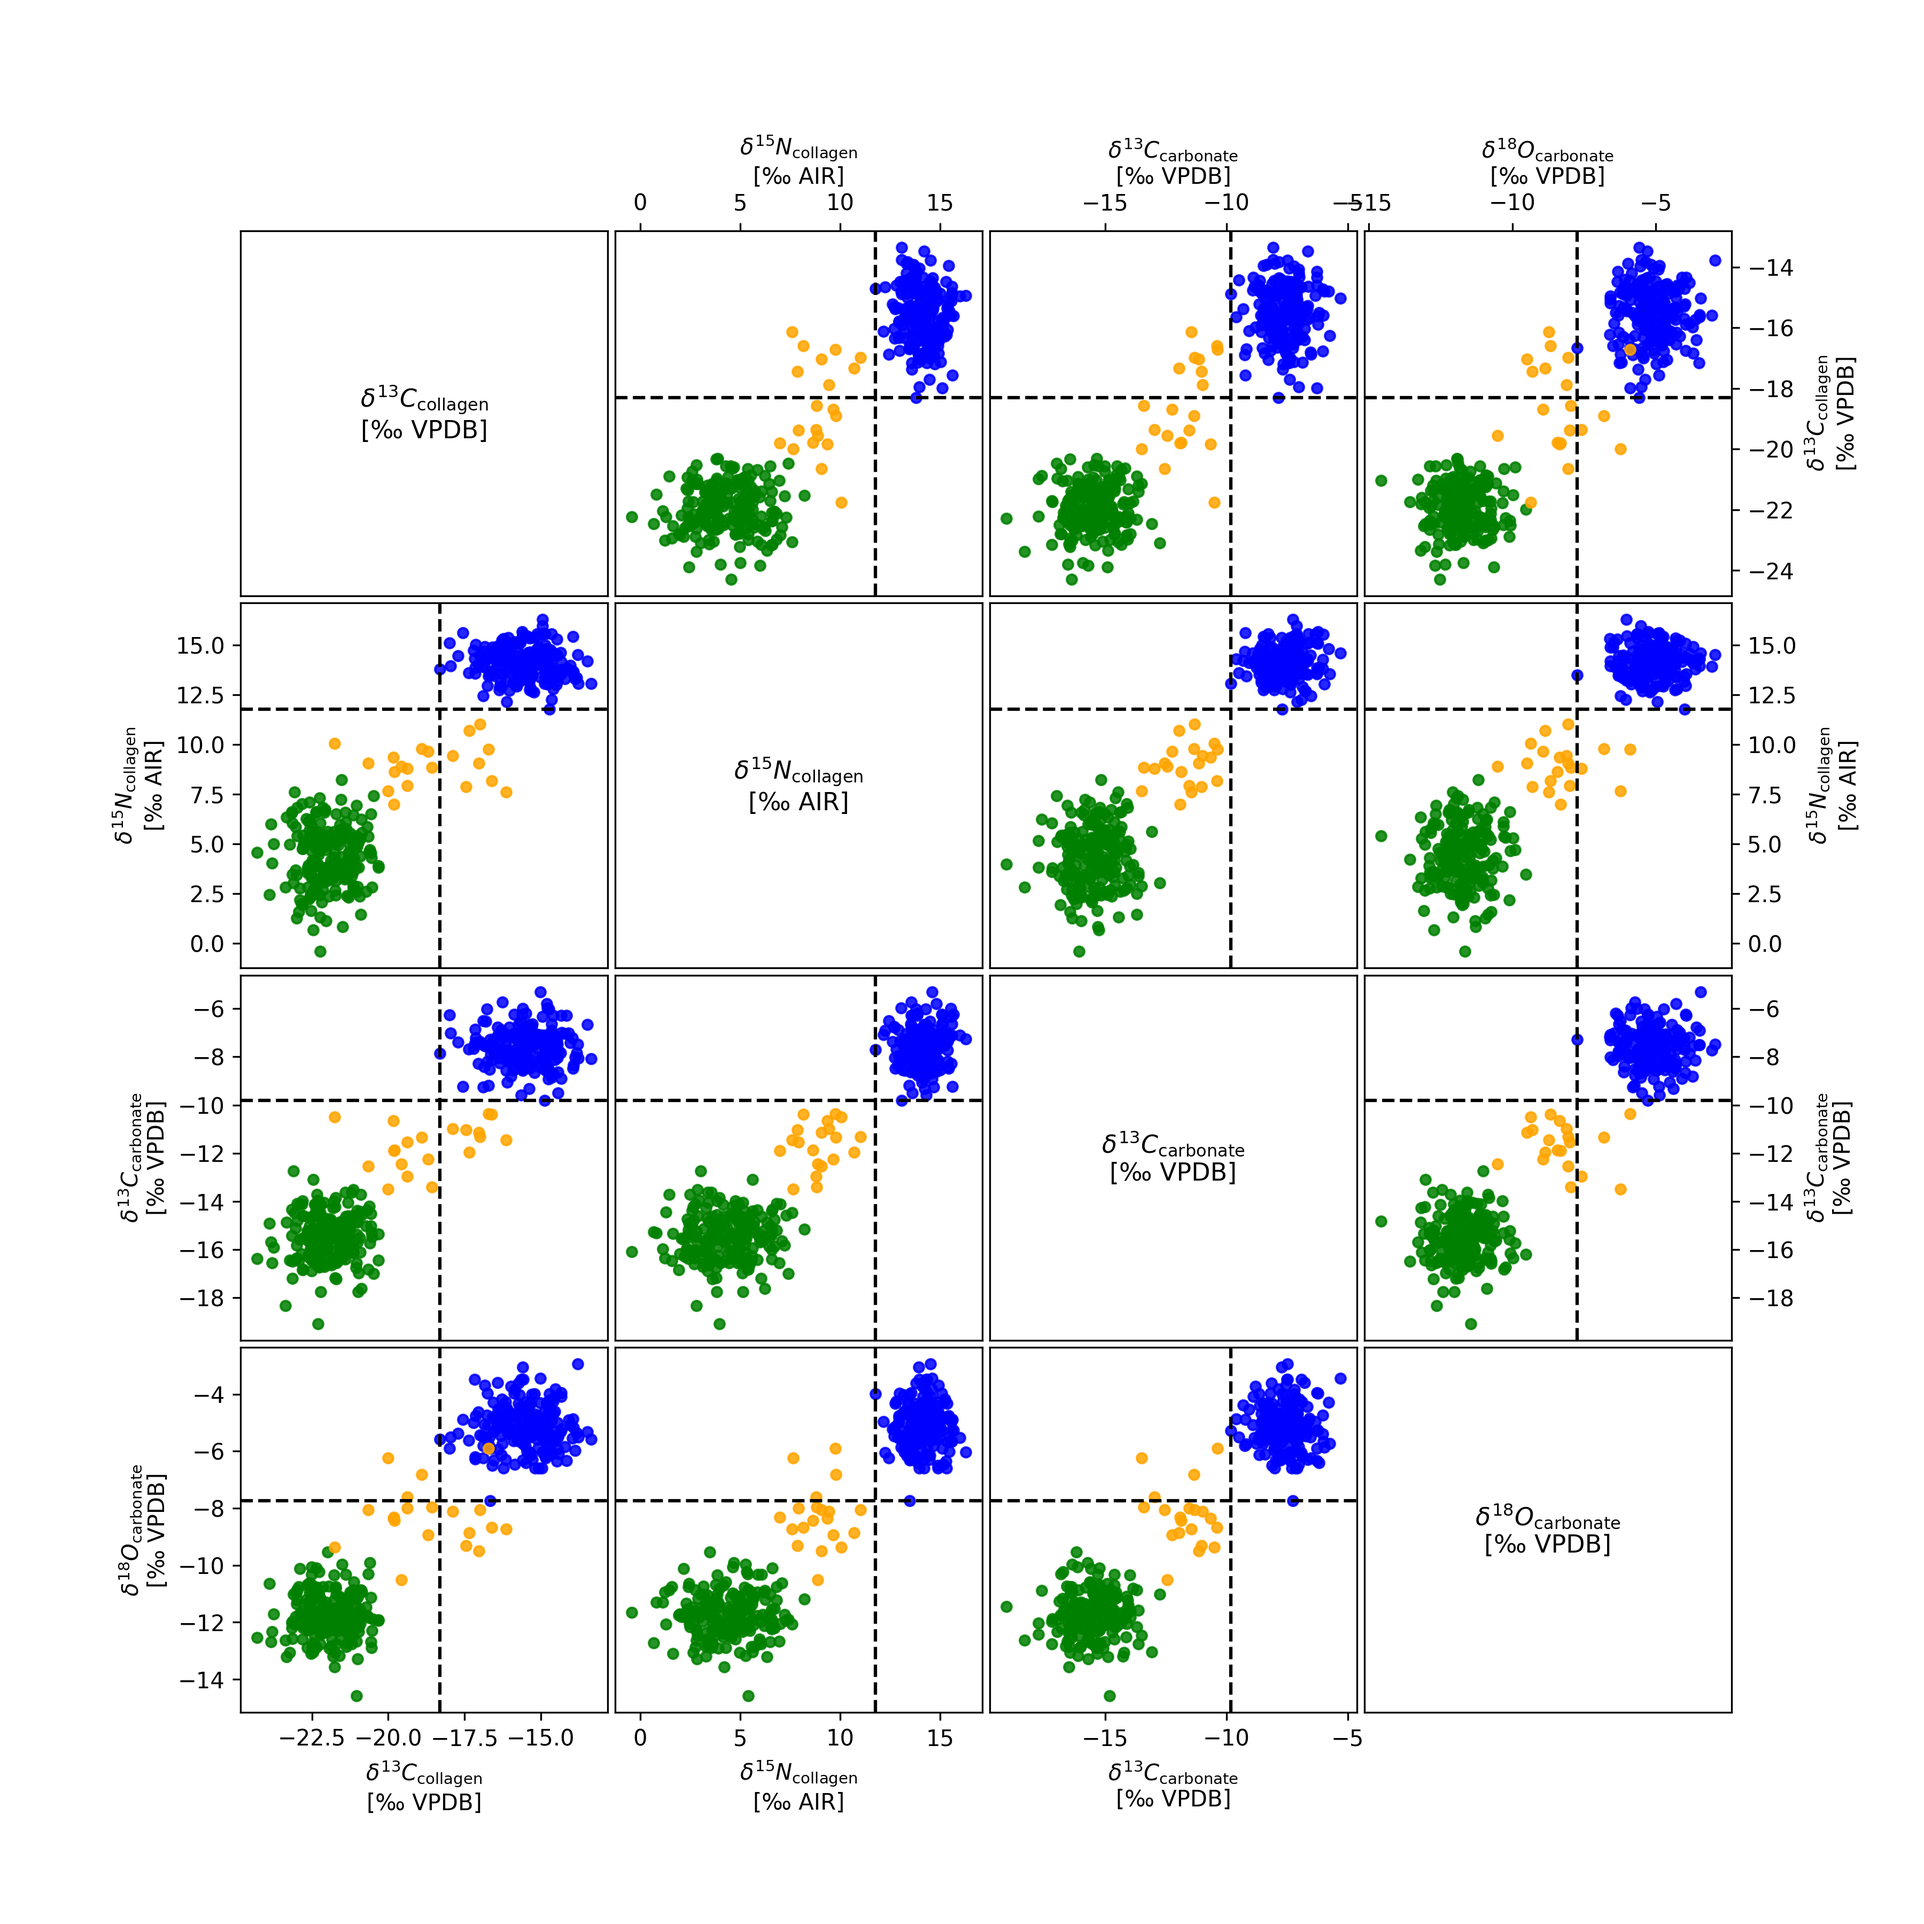
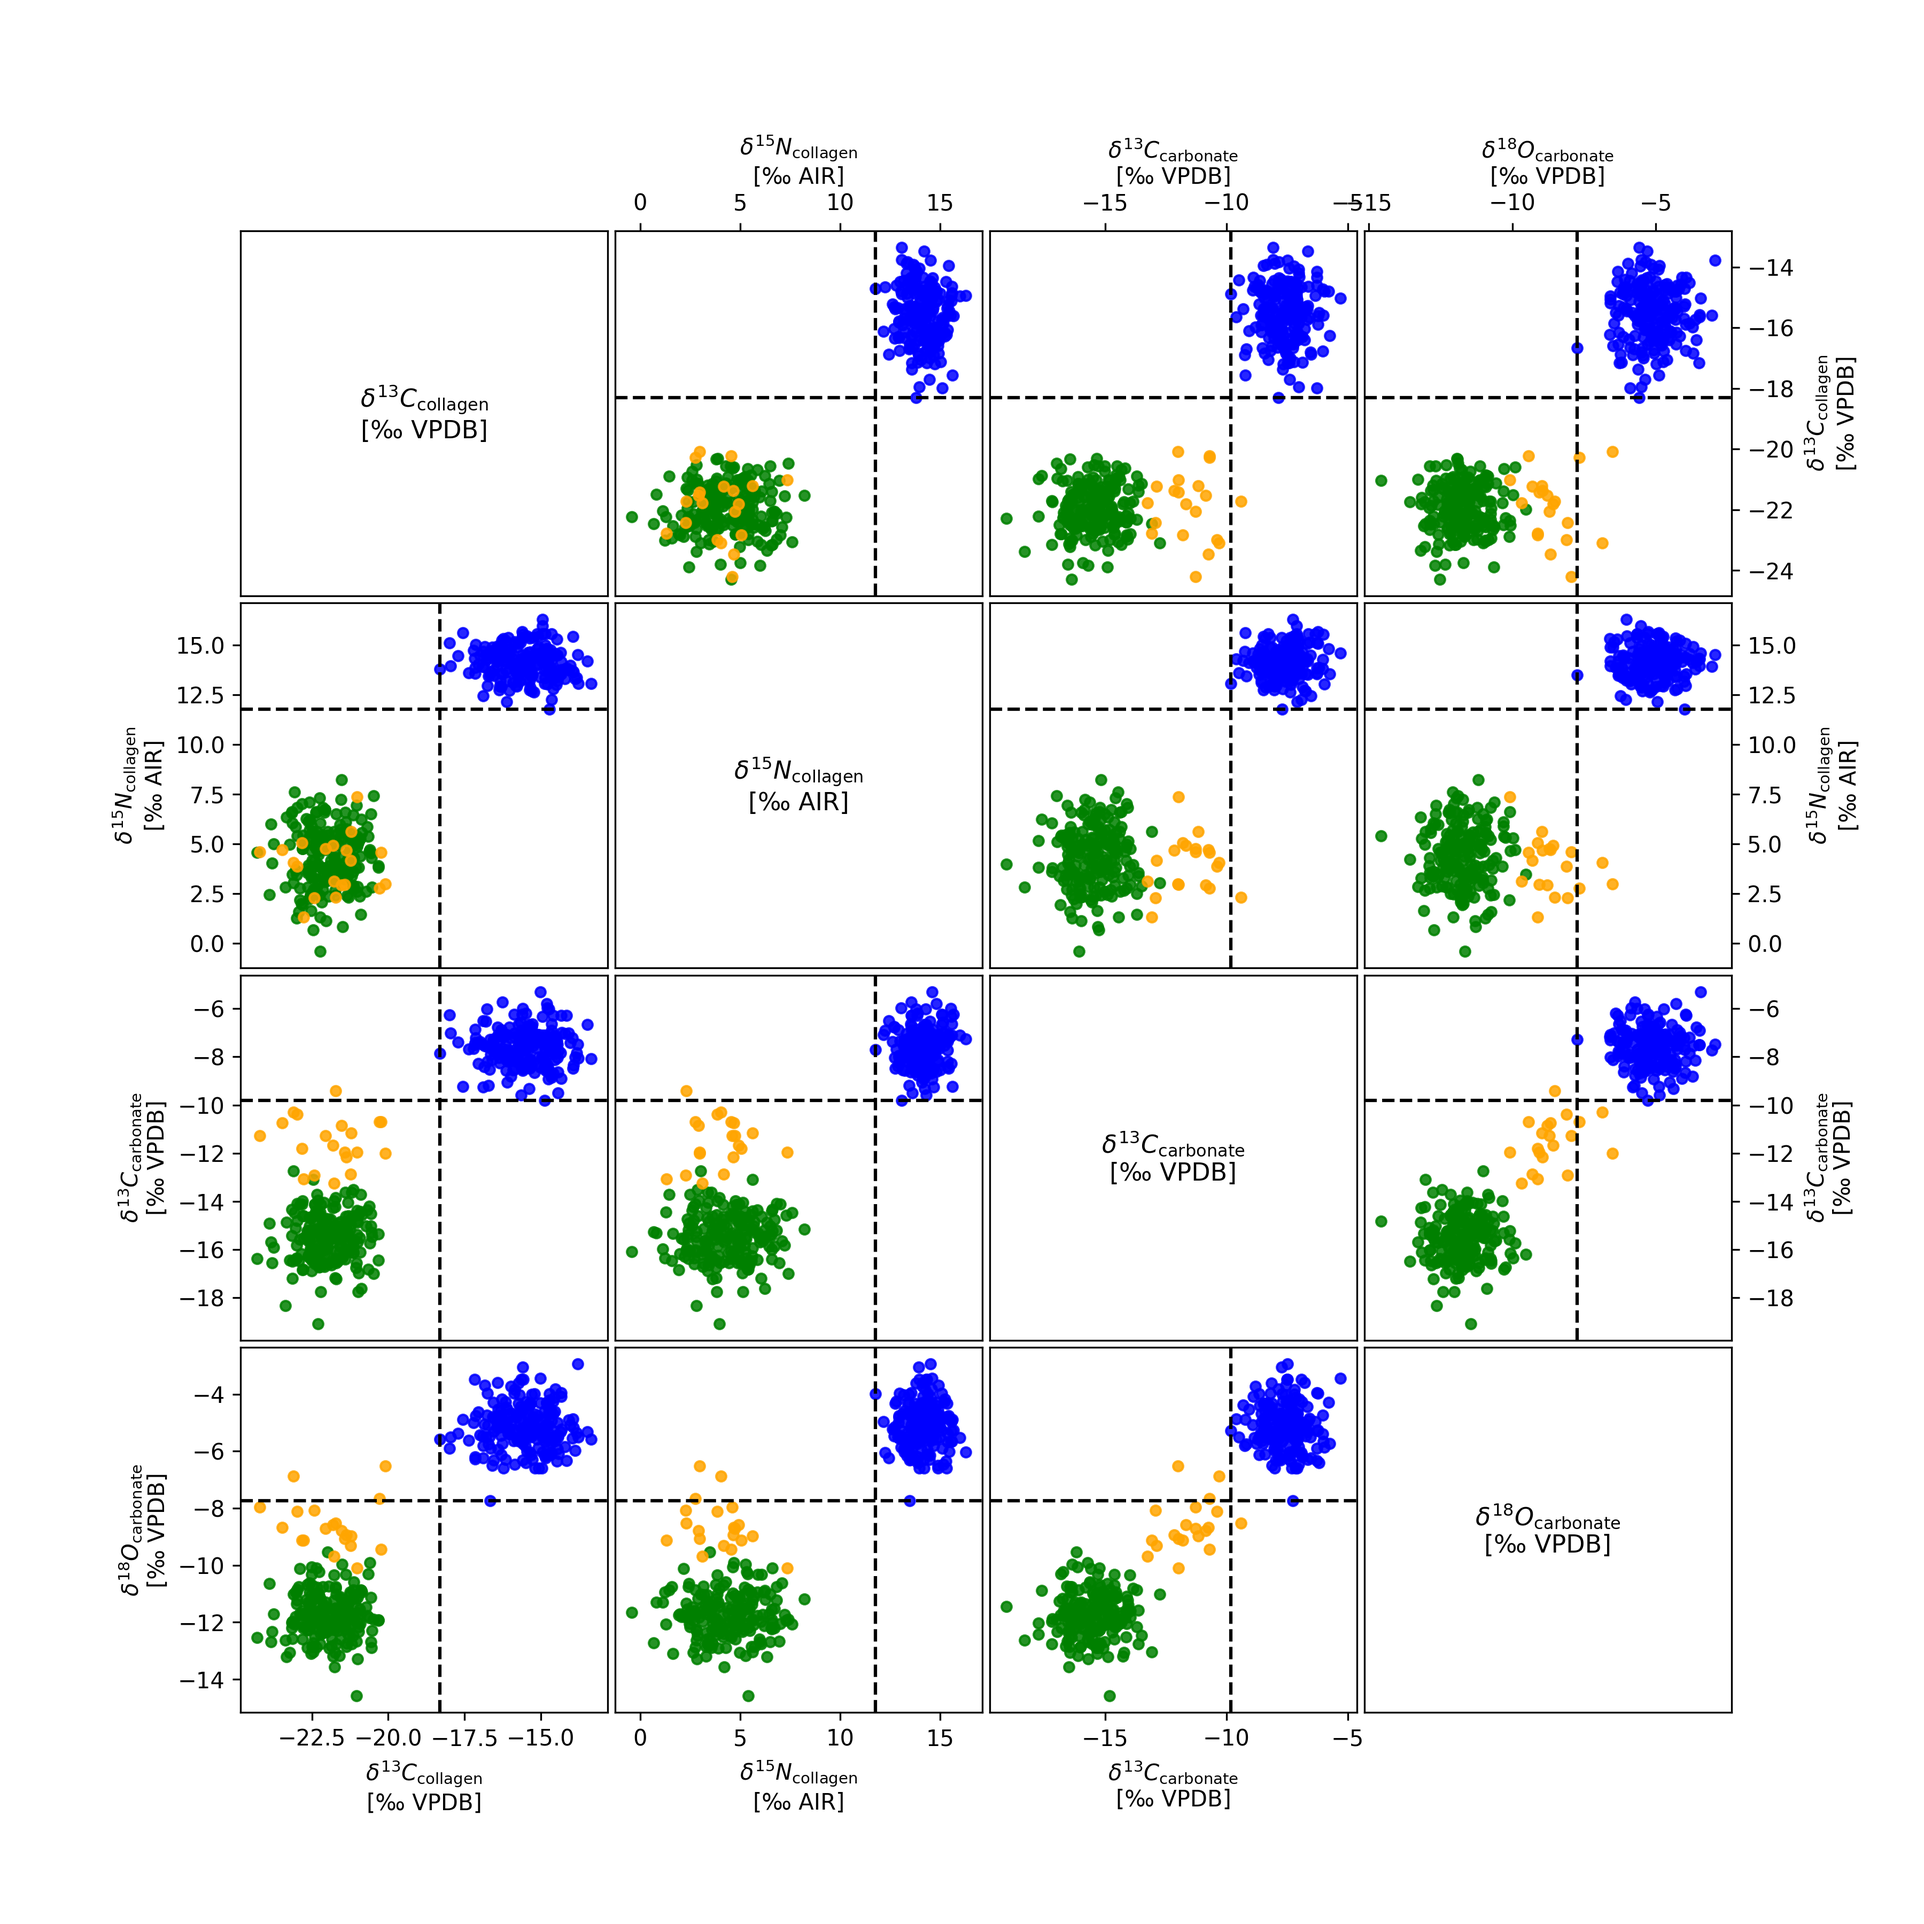
Set coll values to be herbivor

diff --git a/src/data_generation.py b/src/data_generation.py
@@ -25,7 +25,7 @@ SIZE = 200
 
 # -------------------------------------------------
 # Manual adjustment of mean and std per cluster & feature
-# Factors multiply existing sigma, shifts are added to mean
+# Factors multiply existing sigma, shifts are added to meanA
 # -------------------------------------------------
 MANUAL_ADJUSTMENTS = {
     "herbivorous": {
@@ -44,7 +44,7 @@ MANUAL_ADJUSTMENTS = {
 
 # IBI parameters
 IBI_SIZE = 20
-IBI_STD_FACTOR = 1.25
+IBI_STD_FACTOR = 1.0
 
 # -------------------------------------------------
 # 1) Load data
@@ -188,14 +188,20 @@ for cluster_name, p in params.items():
 c1, c2 = cluster_names
 
 ibi_center = 0.5 * (params[c1]["mu"] + params[c2]["mu"])
-ibi_std = float(np.mean(0.5 * (params[c1]["sigma"] + params[c2]["sigma"])) * IBI_STD_FACTOR)
+ibi_sigma = 0.5 * (params[c1]["sigma"] + params[c2]["sigma"]) * IBI_STD_FACTOR
 
-ibi_X, _ = make_blobs(
-    n_samples=IBI_SIZE,
-    centers=[ibi_center],
-    cluster_std=ibi_std,
-    n_features=len(FEATURES),
-    random_state=SEED
+# Since we want the IBI's d13C and d15N values to be equivalent to the herbivorous ones,
+# we just set overwrite the named 2 dimensions. 
+ibi_center[FEATURES.index("δ13C coll")] = params["herbivorous"]["mu"][FEATURES.index("δ13C coll")]
+ibi_center[FEATURES.index("δ15N coll")] = params["herbivorous"]["mu"][FEATURES.index("δ15N coll")]
+
+ibi_sigma[FEATURES.index("δ13C coll")] = params["herbivorous"]["sigma"][FEATURES.index("δ13C coll")]
+ibi_sigma[FEATURES.index("δ15N coll")] = params["herbivorous"]["sigma"][FEATURES.index("δ15N coll")]
+
+ibi_X = rng.normal(
+    loc=ibi_center,
+    scale=ibi_sigma,
+    size=(IBI_SIZE, len(FEATURES))
 )
 
 ibi_df = pd.DataFrame(ibi_X, columns=FEATURES)

diff --git a/src/plot.py b/src/plot.py
@@ -5,13 +5,6 @@ import matplotlib
 matplotlib.use("Agg")
 import matplotlib.pyplot as plt
 
-import scipy.stats as stats
-import pandas as pd
-import numpy as np
-import matplotlib
-matplotlib.use("Agg")
-import matplotlib.pyplot as plt
-
 # -------------------------------------------
 # CONFIG
 # -------------------------------------------
